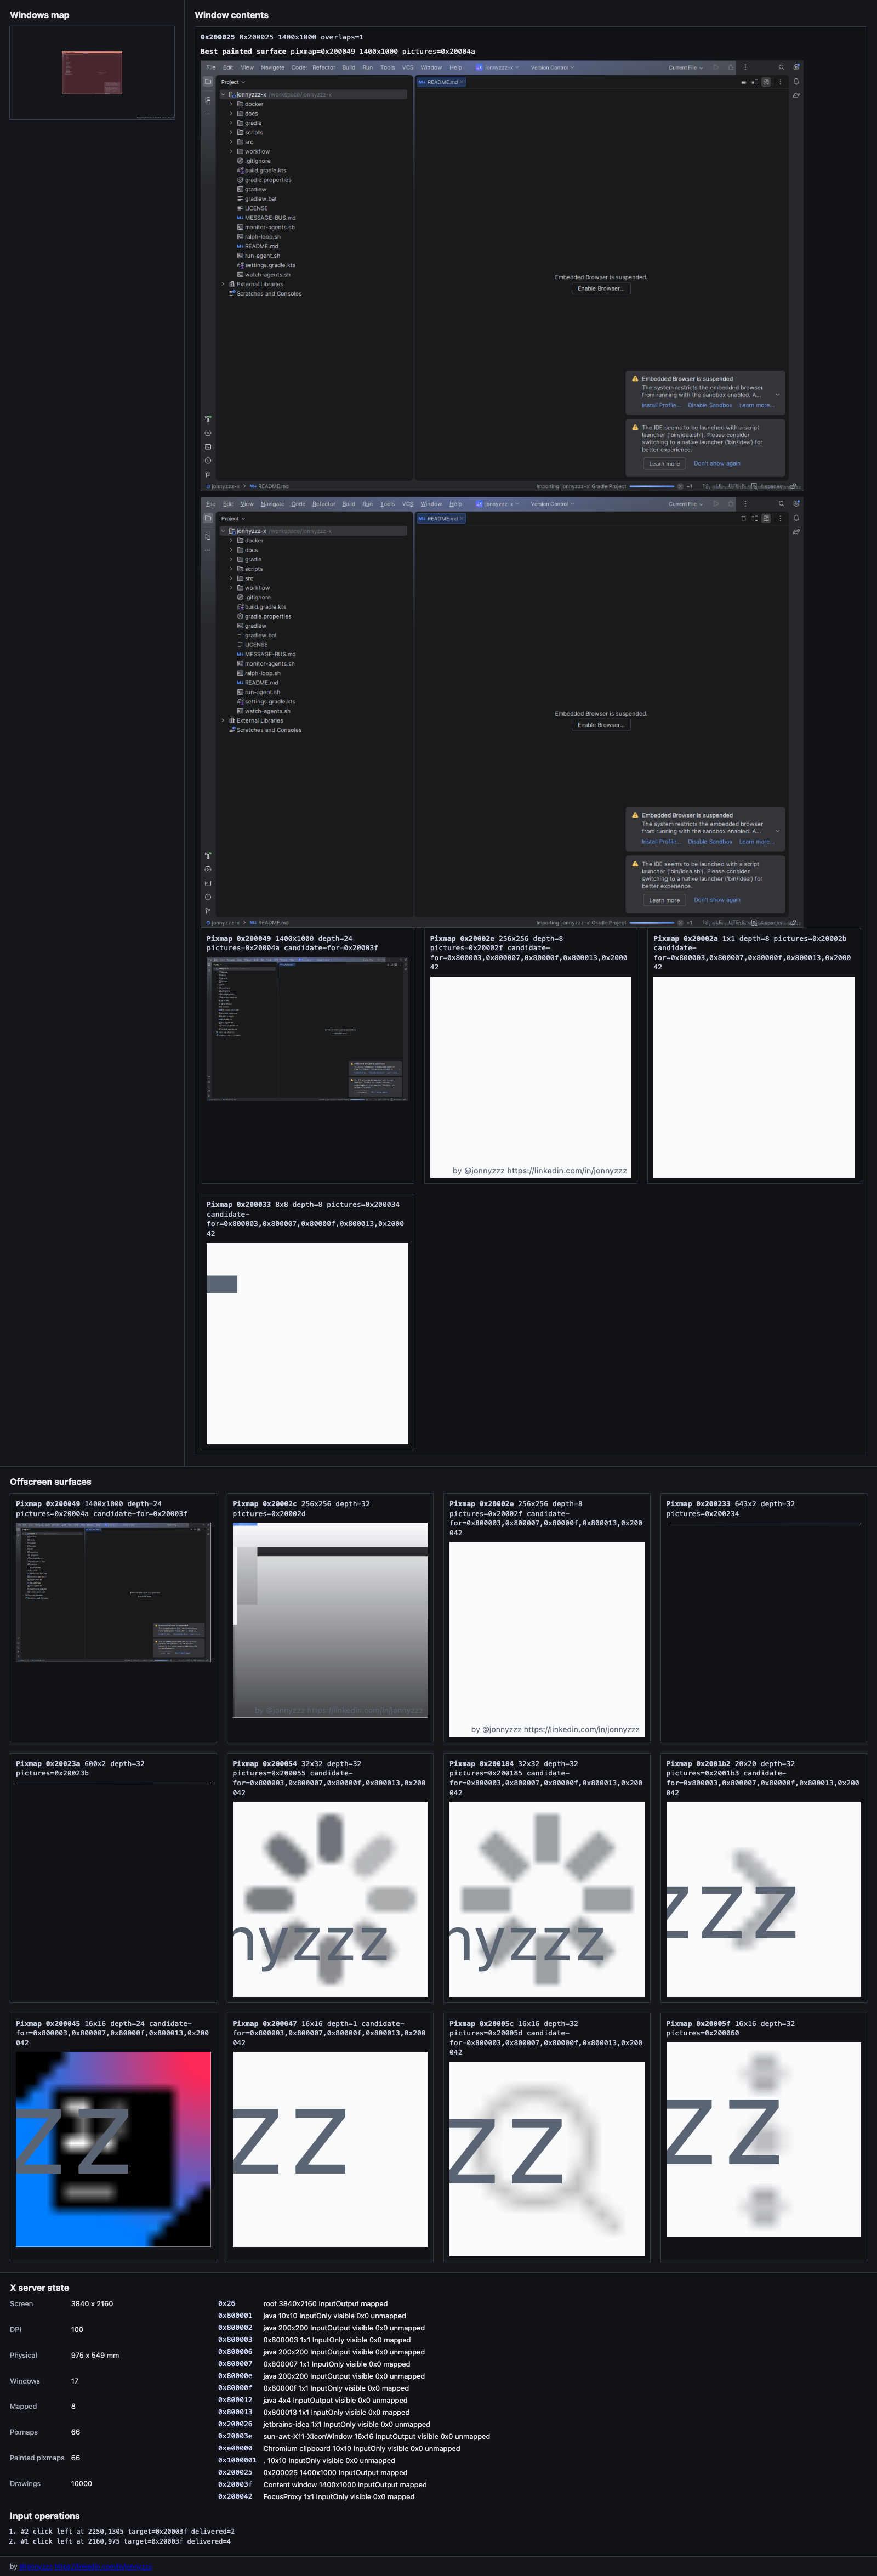
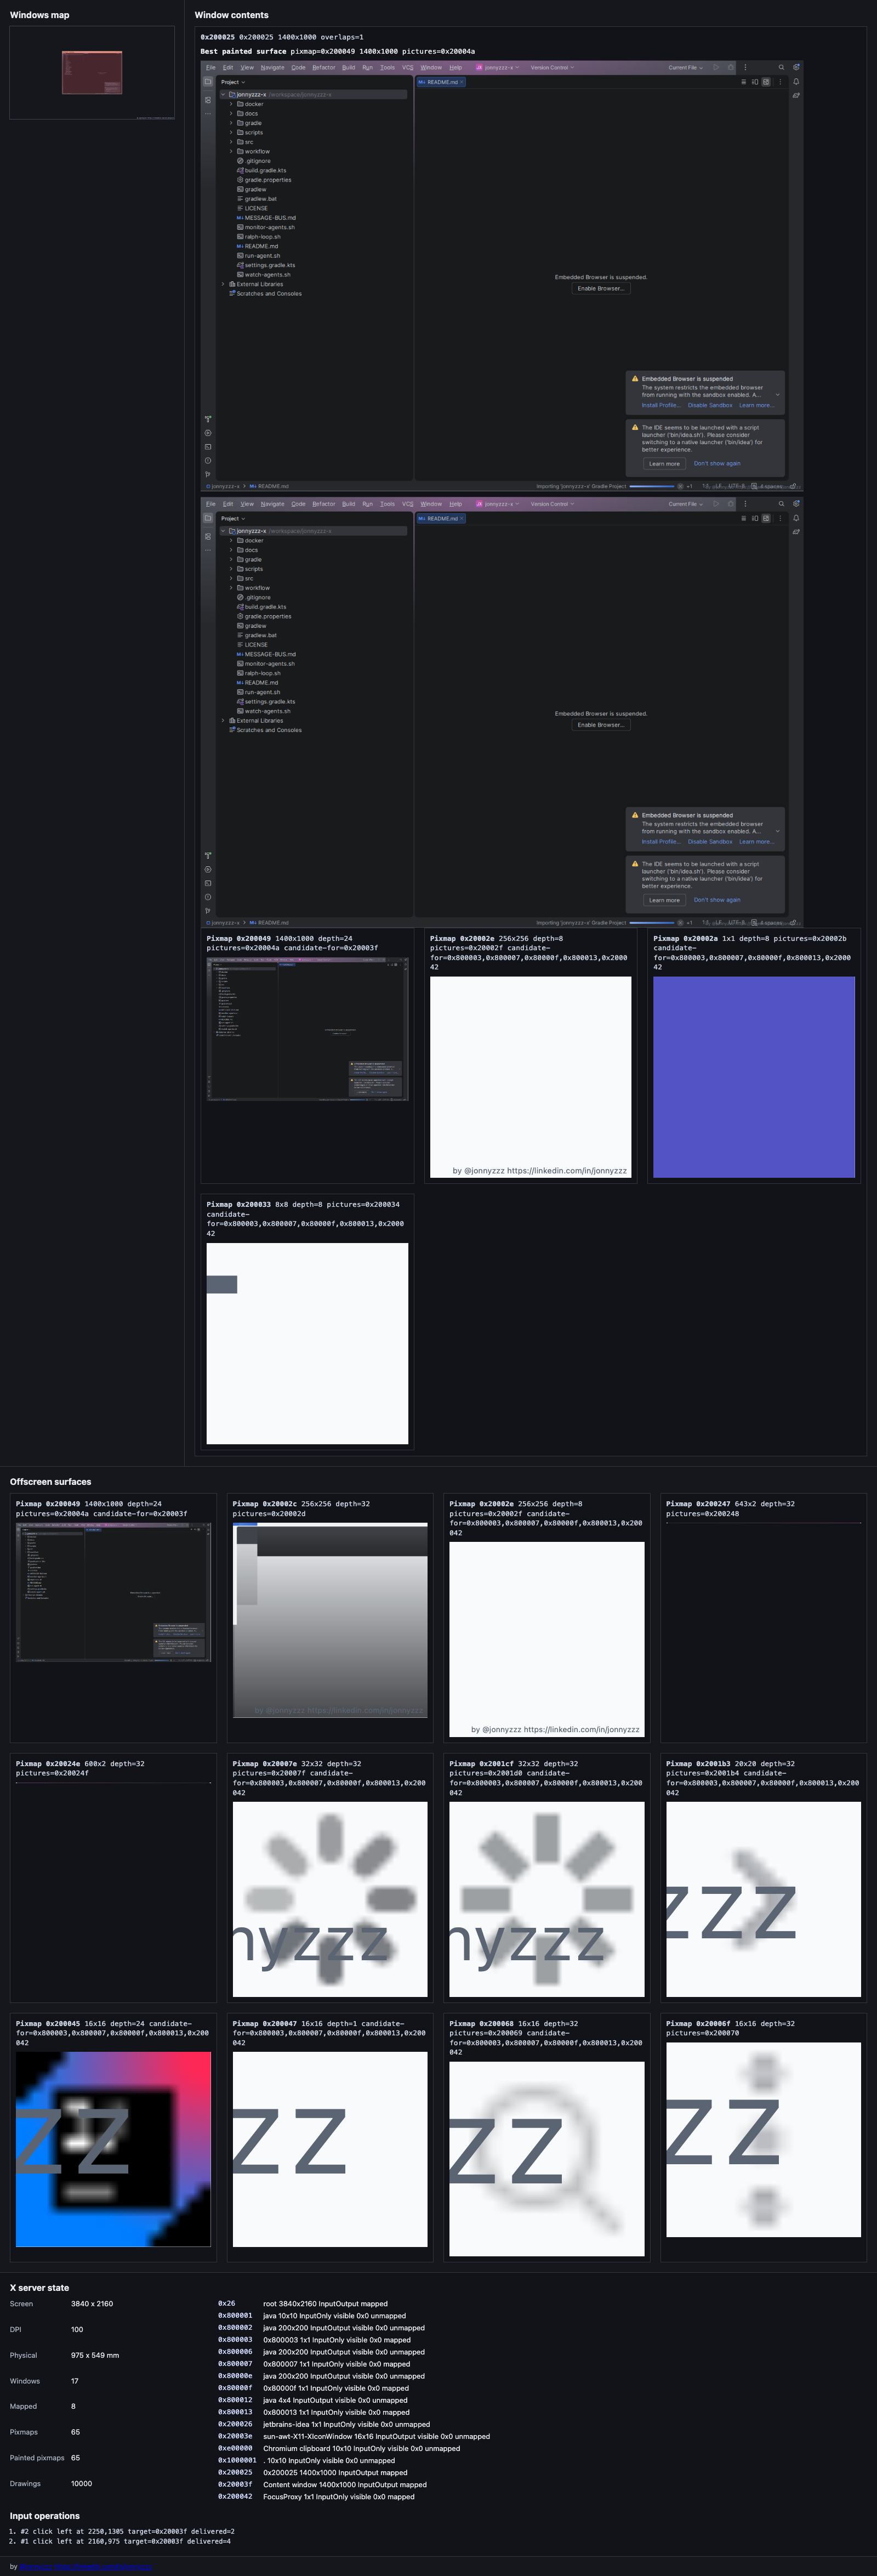
Match Xvfb bilinear RENDER truncation

diff --git a/src/test/kotlin/org/jonnyzzz/xserver/XRenderProtocolTest.kt b/src/test/kotlin/org/jonnyzzz/xserver/XRenderProtocolTest.kt
@@ -1277,7 +1277,7 @@ class XRenderProtocolTest {
                 out.flush()
 
                 val image = readReply(socket.getInputStream())
-                assertEquals(0x8000_fe00.toInt(), pixelAt(image, imageWidth = 1, x = 0, y = 0))
+                assertEquals(0x7f00_ff00, pixelAt(image, imageWidth = 1, x = 0, y = 0))
             }
             server.close()
             serverThread.join(1_000)
@@ -10438,11 +10438,115 @@ class XRenderProtocolTest {
                 out.flush()
 
                 val image = readReply(socket.getInputStream())
-                assertEquals(0xff80_8000.toInt(), pixelAt(image, imageWidth = 1, x = 0, y = 0))
-                assertEquals(0xff80_007f.toInt(), pixelAt(image, imageWidth = 1, x = 0, y = 1))
-                assertEquals(0x8000_fe00.toInt(), pixelAt(image, imageWidth = 1, x = 0, y = 2))
+                assertEquals(0xff7f_7f00.toInt(), pixelAt(image, imageWidth = 1, x = 0, y = 0))
+                assertEquals(0xff7f_0080.toInt(), pixelAt(image, imageWidth = 1, x = 0, y = 1))
+                assertEquals(0x7f00_ff00, pixelAt(image, imageWidth = 1, x = 0, y = 2))
                 assertEquals(0xff00_ff00.toInt(), pixelAt(image, imageWidth = 1, x = 0, y = 3))
-                assertEquals(0xff80_8000.toInt(), pixelAt(image, imageWidth = 1, x = 0, y = 4))
+                assertEquals(0xff7f_7f00.toInt(), pixelAt(image, imageWidth = 1, x = 0, y = 4))
+            }
+            server.close()
+            serverThread.join(1_000)
+        }
+    }
+
+    @Test
+    fun `RENDER good and best filters match Xvfb transformed repeated pixmap strips`() {
+        XServer(ServerOptions(port = 0, width = 640, height = 480)).use { server ->
+            val serverThread = thread(start = true, isDaemon = true) { server.serveForever() }
+            Socket("127.0.0.1", server.localPort).use { socket ->
+                setup(socket)
+                val out = socket.getOutputStream()
+                out.write(createWindowRequest(WindowId))
+                out.write(renderCreatePicture(PictureId, WindowId, XRender.Rgb24Format))
+                out.write(createPixmapRequest(PixmapId, depth = 32, width = 4, height = 2))
+                out.write(renderCreatePicture(PixmapPictureId, PixmapId, XRender.Argb32Format))
+                listOf(
+                    RenderColor(red = 0xffff, green = 0x0000, blue = 0x0000, alpha = 0xffff),
+                    RenderColor(red = 0x0000, green = 0xffff, blue = 0x0000, alpha = 0xffff),
+                    RenderColor(red = 0x0000, green = 0x0000, blue = 0xffff, alpha = 0xffff),
+                    RenderColor(red = 0xffff, green = 0xffff, blue = 0x0000, alpha = 0xffff),
+                    RenderColor(red = 0xffff, green = 0x0000, blue = 0xffff, alpha = 0xffff),
+                    RenderColor(red = 0x0000, green = 0xffff, blue = 0xffff, alpha = 0xffff),
+                    RenderColor(red = 0xffff, green = 0xffff, blue = 0xffff, alpha = 0xffff),
+                    RenderColor(red = 0x4000, green = 0x4000, blue = 0x4000, alpha = 0xffff),
+                ).forEachIndexed { index, color ->
+                    out.write(
+                        renderFillRectangles(
+                            PixmapPictureId,
+                            x = index % 4,
+                            y = index / 4,
+                            width = 1,
+                            height = 1,
+                            red = color.red,
+                            green = color.green,
+                            blue = color.blue,
+                            alpha = color.alpha,
+                        ),
+                    )
+                }
+                out.write(renderChangePicture(PixmapPictureId, repeat = XRender.RepeatNormal))
+                out.write(
+                    renderSetPictureTransform(
+                        PixmapPictureId,
+                        listOf(
+                            0x0001_0000,
+                            0,
+                            -0x0003_c000,
+                            0,
+                            0x0001_0000,
+                            0x0000_4000,
+                            0,
+                            0,
+                            0x0001_0000,
+                        ),
+                    ),
+                )
+                listOf("nearest", "bilinear", "good", "best").forEachIndexed { index, filter ->
+                    out.write(renderSetPictureFilter(PixmapPictureId, filter, values = emptyList()))
+                    out.write(
+                        renderComposite(
+                            PixmapPictureId,
+                            PictureId,
+                            operation = XRender.OpSrc,
+                            destinationX = 0,
+                            destinationY = index,
+                            width = 8,
+                            height = 1,
+                        ),
+                    )
+                }
+                out.write(getImageRequest(WindowId, x = 0, y = 0, width = 8, height = 4))
+                out.flush()
+
+                val image = readReply(socket.getInputStream())
+                assertPixelRow(
+                    image,
+                    imageWidth = 8,
+                    y = 0,
+                    expected = listOf(
+                        0xffff_0000.toInt(),
+                        0xff00_ff00.toInt(),
+                        0xff00_00ff.toInt(),
+                        0xffff_ff00.toInt(),
+                        0xffff_0000.toInt(),
+                        0xff00_ff00.toInt(),
+                        0xff00_00ff.toInt(),
+                        0xffff_ff00.toInt(),
+                    ),
+                )
+                val bilinearRow = listOf(
+                    0xffbf_3f3f.toInt(),
+                    0xff0f_cf6f.toInt(),
+                    0xff63_63c3.toInt(),
+                    0xffdb_9b1b.toInt(),
+                    0xffbf_3f3f.toInt(),
+                    0xff0f_cf6f.toInt(),
+                    0xff63_63c3.toInt(),
+                    0xffdb_9b1b.toInt(),
+                )
+                assertPixelRow(image, imageWidth = 8, y = 1, expected = bilinearRow)
+                assertPixelRow(image, imageWidth = 8, y = 2, expected = bilinearRow)
+                assertPixelRow(image, imageWidth = 8, y = 3, expected = bilinearRow)
             }
             server.close()
             serverThread.join(1_000)
@@ -11745,7 +11849,7 @@ class XRenderProtocolTest {
                 out.flush()
 
                 val image = readReply(socket.getInputStream())
-                assertEquals(0xff80_8080.toInt(), pixelAt(image, imageWidth = 2, x = 0, y = 0))
+                assertEquals(0xff7f_7f7f.toInt(), pixelAt(image, imageWidth = 2, x = 0, y = 0))
                 assertEquals(0xff00_00ff.toInt(), pixelAt(image, imageWidth = 2, x = 1, y = 0))
             }
             server.close()
@@ -11801,8 +11905,8 @@ class XRenderProtocolTest {
 
                 val image = readReply(socket.getInputStream())
                 assertEquals(0xffff_ffff.toInt(), pixelAt(image, imageWidth = 4, x = 0, y = 0))
-                assertEquals(0xff80_8080.toInt(), pixelAt(image, imageWidth = 4, x = 1, y = 0))
-                assertEquals(0xff80_8080.toInt(), pixelAt(image, imageWidth = 4, x = 2, y = 0))
+                assertEquals(0xff7f_7f7f.toInt(), pixelAt(image, imageWidth = 4, x = 1, y = 0))
+                assertEquals(0xff7f_7f7f.toInt(), pixelAt(image, imageWidth = 4, x = 2, y = 0))
                 assertEquals(0xff00_00ff.toInt(), pixelAt(image, imageWidth = 4, x = 3, y = 0))
             }
             server.close()
@@ -15237,6 +15341,13 @@ class XRenderProtocolTest {
 
     private fun pixelAt(reply: ByteArray, imageWidth: Int, x: Int, y: Int): Int =
         u32le(reply, 32 + (y * imageWidth + x) * 4)
+
+    private fun assertPixelRow(reply: ByteArray, imageWidth: Int, y: Int, expected: List<Int>) {
+        val actual = expected.indices.map { x -> pixelAt(reply, imageWidth, x, y) }
+        expected.forEachIndexed { x, pixel ->
+            assertEquals(pixel, actual[x], "pixel at $x,$y row=${actual.map { it.toUInt().toString(16) }}")
+        }
+    }
 
     private fun putFixedPoint(bytes: ByteArray, offset: Int, x: Int, y: Int) {
         putFixed(bytes, offset, x)

diff --git a/src/main/kotlin/org/jonnyzzz/xserver/X11State.kt b/src/main/kotlin/org/jonnyzzz/xserver/X11State.kt
@@ -6279,9 +6279,13 @@ internal class X11State(
         }
         fun alpha(pixel: Int): Int = (pixel ushr 24) and 0xff
         fun premultiplied(pixel: Int, shift: Int): Double = ((pixel ushr shift) and 0xff) * alpha(pixel) / 255.0
-        val outAlpha = interpolate(alpha(p00).toDouble(), alpha(p10).toDouble(), alpha(p01).toDouble(), alpha(p11).toDouble())
-            .roundToInt()
-            .coerceIn(0, 255)
+        fun channelValue(value: Double): Int =
+            floor(value)
+                .toInt()
+                .coerceIn(0, 255)
+        val outAlpha = channelValue(
+            interpolate(alpha(p00).toDouble(), alpha(p10).toDouble(), alpha(p01).toDouble(), alpha(p11).toDouble()),
+        )
         if (outAlpha == 0) return 0
         fun channel(shift: Int): Int {
             val premultipliedChannel = interpolate(
@@ -6290,7 +6294,7 @@ internal class X11State(
                 premultiplied(p01, shift),
                 premultiplied(p11, shift),
             )
-            return (premultipliedChannel * 255.0 / outAlpha).roundToInt().coerceIn(0, 255)
+            return channelValue(premultipliedChannel * 255.0 / outAlpha)
         }
         return (outAlpha shl 24) or (channel(16) shl 16) or (channel(8) shl 8) or channel(0)
     }

diff --git a/MESSAGE-BUS.md b/MESSAGE-BUS.md
@@ -1,3 +1,7 @@
+- REVIEW 2026-07-04 11:59 CEST (Root review): PASS/NO BLOCKERS for the XRender bilinear truncation slice. Reviewed the unstaged diff changing `X11State.bilinearPixelAt(...)` from round-to-nearest to truncating pixman-style channel math, the updated XRender expectations, the new transformed repeated pixmap strip oracle covering `nearest`, `bilinear`, `good`, and `best`, and the refreshed IntelliJ renderer PNG. Blame shows the touched XRender sampler/tests are in the current Eugene Petrenko XRender series. `git diff --check` passed; bounded Gradle verification passed with the already-running serialized full `test --console=plain` run (`runs/gradle-bounded/run_20260704-095650-48756`, `EXIT_CODE=0`) and forced focused `XRenderProtocolTest` rerun (`runs/gradle-bounded/run_20260704-095945-54269`, `EXIT_CODE=0`). No MCP Steroid, nested agents, or parallel build-directory-writing commands were used.
+
+- FACT 2026-07-04 11:56 CEST (Root): Continued essential-target work without unparking new extensions. Current IntelliJ/VSCode traces still show no unsupported-request blocker, but IntelliJ uses repeated transformed RENDER pixmap strips with `filter=good`/`best`. A bounded Xvfb socket oracle (`runs/bounded-experiments/run_20260704-094531-27388`) showed normal-repeat transformed ARGB32 pixmap strips use bilinear-equivalent `good`/`best` filters with truncating pixman channel math, not round-to-nearest. `X11State.bilinearPixelAt(...)` now truncates interpolated alpha/color channels; `XRenderProtocolTest` pins the Xvfb rows for `nearest`, `bilinear`, `good`, and `best` on a transformed repeated pixmap strip and updates older bilinear expectations. Verification passed serially with focused oracle regression, full `XRenderProtocolTest`, full default `test --console=plain`, and opt-in IntelliJ parity `IntellijCommunitySmokeTest -Dx.intellijParity=true`; refreshed `docs/images/intellij-demo-renderer.png`. Composite, DAMAGE, Present, XI2/XInputExtension, DRI2/DRI3, desktop-specific extensions, and real GLX remain parked.
+
 - FACT 2026-07-04 10:00 CEST (Research agent): Research pass followed `/Users/jonnyzzz/Work/jonnyzzz-x/workflow/agent-reliability.md` and the local override with shell/source/artifact inspection only; no MCP Steroid semantic APIs, no nested agents, no Gradle/Maven/IDE build/test/package commands, no Docker commands, no source/test/docs edits, no commits, and no `ISSUES.md` blocker changes. Read `/Users/jonnyzzz/Work/jonnyzzz-x/THE_PROMPT_v5.md`, `/Users/jonnyzzz/Work/jonnyzzz-x/THE_PROMPT_v5_research.md`, `workflow/agent-reliability.md`, `workflow/extension-scope.md`, recent `MESSAGE-BUS.md`, current target smoke/parity tests, and generated IntelliJ/VSCode artifacts. Current `HEAD=f5b7277` (`Capture VSCode HTML preview parity`); existing local status before this research append included modified `MESSAGE-BUS.md`, `watch-agents.sh`, `workflow/agent-reliability.md`, and untracked `ISSUES.md` / `XRENDER_GRADIENT_PLAN.md`.
 - FACT 2026-07-04 10:00 CEST (Research agent): Current target-client evidence does not justify new X11 protocol or extension work. IntelliJ parity artifacts under `build/tmp/intellij-community-smoke/` include `intellij-kotlin-html-previews.txt` with two large `1260x860` retained/content surfaces and `intellij-kotlin-text.txt` reports `Unsupported requests: - None.`. VSCode artifacts under `build/tmp/vscode-smoke/` include `vscode-kotlin-html-previews.txt` with one large `1279x899` Code surface and `vscode-diagnostics.txt` reports `vscodeUnsupportedRequests=None`, supported allowlisted extensions, and nonblocking unsupported extension probes `Composite DAMAGE DOUBLE-BUFFER XInputExtension`.
 - FACT 2026-07-04 10:00 CEST (Research agent): Best low-risk candidate is non-extension harness/diagnostics maintenance for older AWT and real-client parity suites: add retained artifact inventory/metrics analogous to the newer IntelliJ/VSCode dumps. Evidence: `AwtPrimitiveDockerTest.runRobotProbeAgainstKotlinServer(...)` captures Kotlin `/text.txt`, `/screen.svg`, Robot output, and embedded framebuffer data, while `XvfbContainerTest.dumpVisualCapturePair(...)` keeps only reference/actual PNG pairs under `build/tmp/xvfb-container-test`; the newer `IntellijCommunitySmokeTest.dumpIntellijParityArtifacts(...)` and `VSCodeSmokeTest.dumpVSCodeParityArtifacts(...)` retain text, SVG, HTML previews, layer inventories, logs, visual diffs, and region metrics. Minimal slice: persist per-probe text/SVG/layer inventory and scalar metrics for AWT/real-client parity failures without changing protocol behavior.